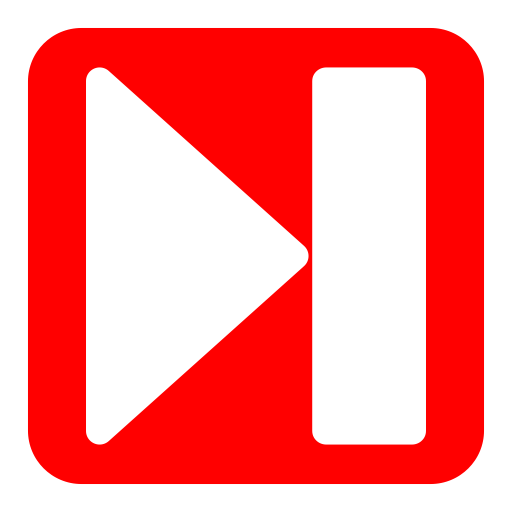
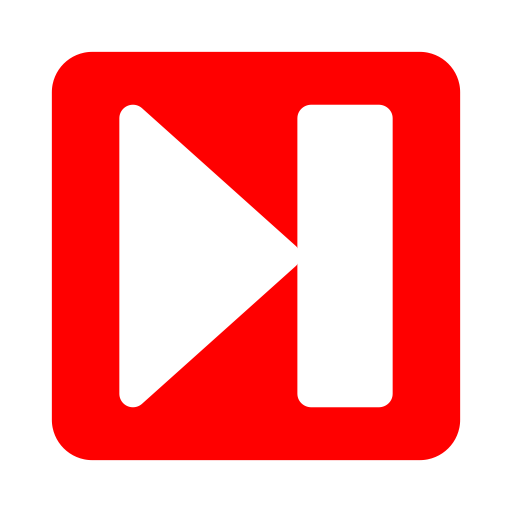
ready to release
- icons are updated
- README is updated

diff --git a/README.md b/README.md
@@ -1,2 +1,28 @@
 # youtube-ad-auto-skip-close-banner
-Youtube Ad Auto Skip
+Youtube Ad Auto Skip - Chrome Extension
+
+# DESCRIPTION
+Youtube Ad Auto Skip extension allows you to skip YouTube ads easily!
+
+# STORY
+```
+This extension was born for purpose to be able to skip youtube ads when they are finish. But sometimes YouTube displays ads which lasts over an hour! This is unbelievable! That's why I code this extension. 
+```
+
+# USAGE
+- skip youtube ads automatically!
+- you can select to skip video ads
+- you can select to skip text banner ads
+- you can select to skip image banner ads
+- you can set a timeout to see ads for a while(maybe it is a ad that you are interested in)
+- finally, click save!
+
+# NOTES
+- the extension works on Chrome(not tested on chromium or any other browsers yet!)
+- the extension works on YouTube website.
+- it is free! If you want to support me, [buy me a coffee :)](https://www.buymeacoffee.com/sametkamgul)
+
+
+# DISCLAMER
+- this is not ad blocker extension. (not yet ^.^)
+- if you want a new feature, reach me out: sametkamgul@gmail.com
